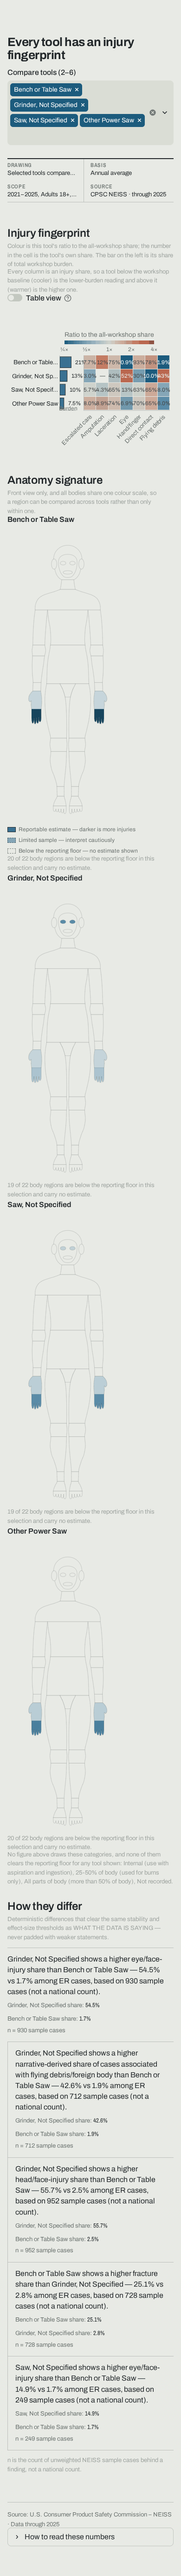
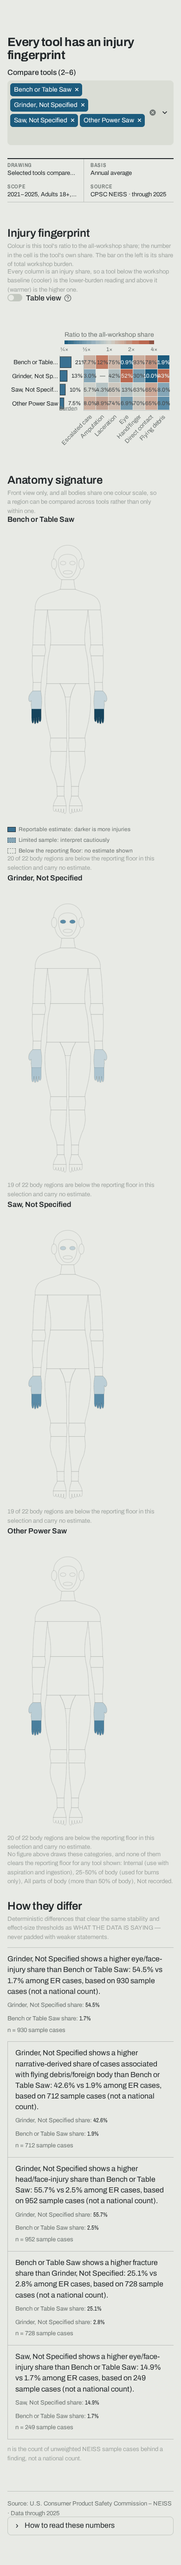
Fix crossed query results under concurrent sessions and clipped page titles
Every Streamlit session shared one cached DuckDB connection, and DuckDB
connections are not safe for concurrent queries. On the hosted app,
simultaneous page loads read each other's results, which surfaced as
InsufficientPSUsError with fractional PSU counts and ColumnNotFoundError
for "grp". The shared database stays cached; each caller now gets its own
cursor on it. A regression test runs share queries from eight threads and
compares them with a serial result.

Hosted deployments paint Streamlit's 60px header opaque, so the desktop
top padding of 32px hid the page title. Desktop padding is now 80px.
Screenshots re-shot to match.

diff --git a/tests/app/test_connection_threads.py b/tests/app/test_connection_threads.py
@@ -1,0 +1,46 @@
+"""Regression: Streamlit runs each session on its own thread, and DuckDB connections are not
+safe for concurrent queries. `get_connection()` must hand every caller its own cursor so
+concurrent page loads cannot read each other's results (seen live as InsufficientPSUsError with
+fractional n_h and ColumnNotFoundError "grp")."""
+
+from __future__ import annotations
+
+import threading
+from concurrent.futures import ThreadPoolExecutor
+
+from polars.testing import assert_frame_equal
+
+from wii.app import data as data_module
+from wii.metrics.estimator import share_by
+from wii.metrics.filters import CaseFilter
+
+
+def test_get_connection_returns_distinct_cursor_per_call():
+    first = data_module.get_connection()
+    second = data_module.get_connection()
+    assert first is not second
+    assert first.execute("SELECT COUNT(*) FROM fact_cases").fetchone()[0] > 0
+
+
+def test_concurrent_share_queries_return_serial_result():
+    years = data_module.available_years()
+    flt = CaseFilter(years=(years[-5], years[-1]))
+    numerator = CaseFilter(body_regions=("finger",), body_basis="any")
+    expected = share_by(data_module.get_connection(), flt, numerator, by="all")
+
+    barrier = threading.Barrier(8)
+
+    def run(_: int):
+        barrier.wait()
+        out = []
+        for _ in range(6):
+            out.append(share_by(data_module.get_connection(), flt, numerator, by="all"))
+        return out
+
+    with ThreadPoolExecutor(max_workers=8) as pool:
+        results = [frame for batch in pool.map(run, range(8)) for frame in batch]
+
+    # DuckDB sums in parallel, so serial runs already differ around 1e-16 relative; a crossed
+    # result differs in shape or by whole orders of magnitude.
+    for frame in results:
+        assert_frame_equal(frame, expected, check_exact=False, rel_tol=1e-9)

diff --git a/src/wii/app/data.py b/src/wii/app/data.py
@@ -1,6 +1,6 @@
 """D-02/APP-05 cached data layer: the only module that touches `wii.metrics` or agg-table SQL.
 
-`st.cache_resource` holds the one process-wide DuckDB connection; `st.cache_data` wraps every
+`st.cache_resource` holds the one process-wide DuckDB database; `st.cache_data` wraps every
 query, keyed on the frozen `CaseFilter` tuple (Wave-0 spike A3: confirmed hashable). The default
 view (no active sidebar filter) reads the committed `agg_overall_year` table; any non-default
 filter falls through to the `wii.metrics` query path via `cached_estimate_total`. The app imports
@@ -49,9 +49,17 @@ _DEFAULT_AGE_SCOPE = "adults"
 
 
 @st.cache_resource
-def get_connection():
-    """One process-wide DuckDB connection over the committed processed Parquet (D-02)."""
+def _base_connection():
+    """One process-wide DuckDB database over the committed processed Parquet (D-02)."""
     return connect()
+
+
+def get_connection():
+    """A fresh cursor on the shared database for each caller. Streamlit runs every session on
+    its own thread, and one DuckDB connection is not safe for concurrent queries: sharing it let
+    simultaneous page loads read each other's results. A cursor is a separate connection to the
+    same in-memory database, so it sees the registered views at negligible cost."""
+    return _base_connection().cursor()
 
 
 @st.cache_data(ttl=None)

diff --git a/src/wii/app/theme.py b/src/wii/app/theme.py
@@ -181,8 +181,9 @@ button, input, select, textarea, [role="option"], [role="combobox"],
 [data-testid="stDecoration"] {{ display: none; }}
 body {{ overflow-x: hidden; }}
 img, svg {{ max-width: 100%; height: auto; }}
+/* Clear Streamlit's fixed 60px header: hosted deployments paint it opaque over the title. */
 [data-testid="stMainBlockContainer"] {{
-  padding-top: var(--wii-space-xl);
+  padding-top: 80px;
   padding-bottom: var(--wii-space-3xl);
 }}
 [data-testid="stMain"] [data-testid="stVerticalBlock"] {{ gap: 12px; }}
